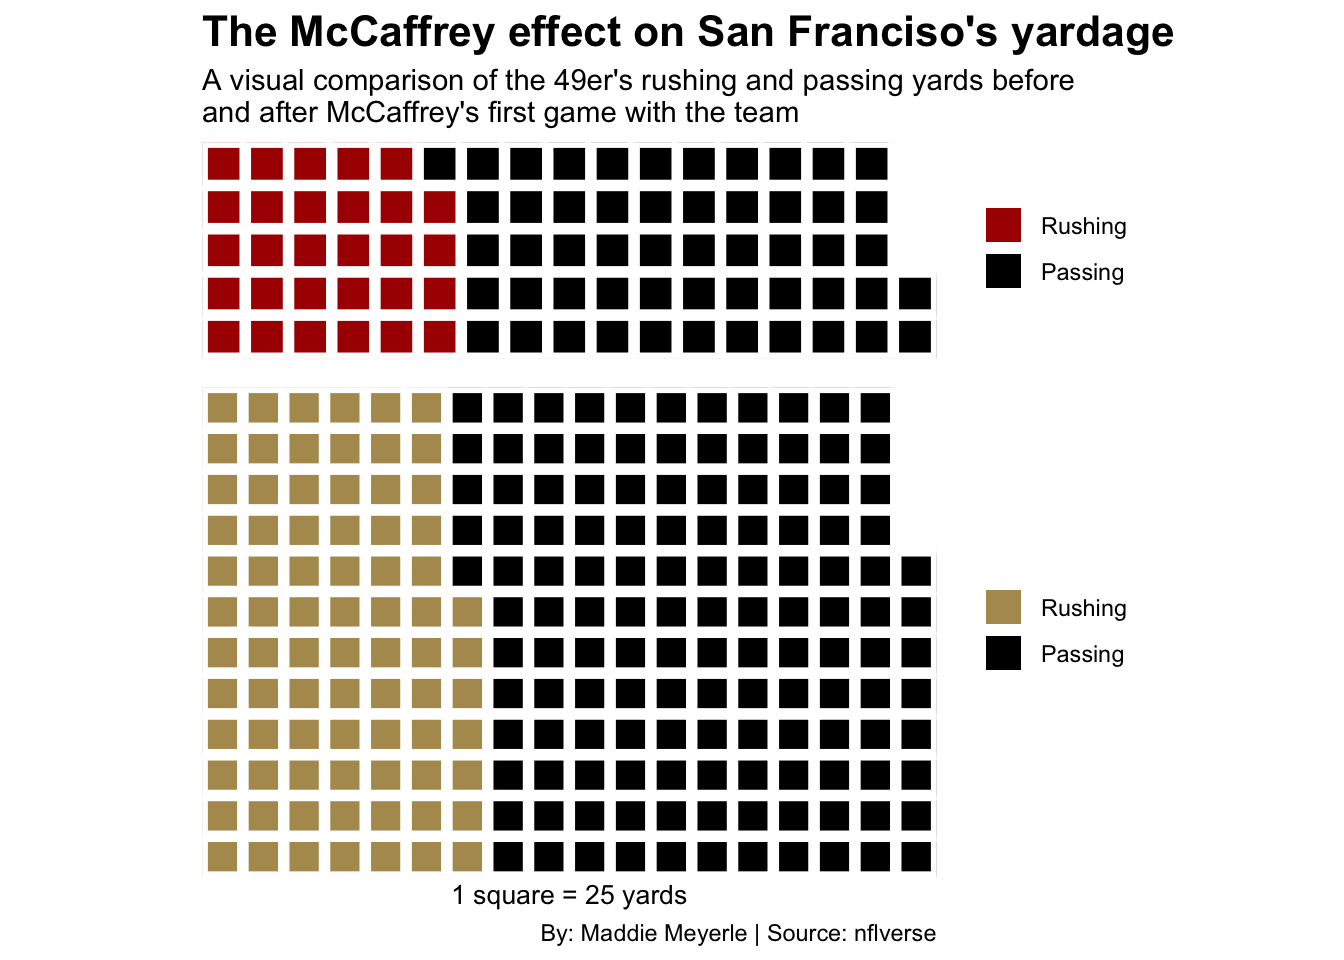
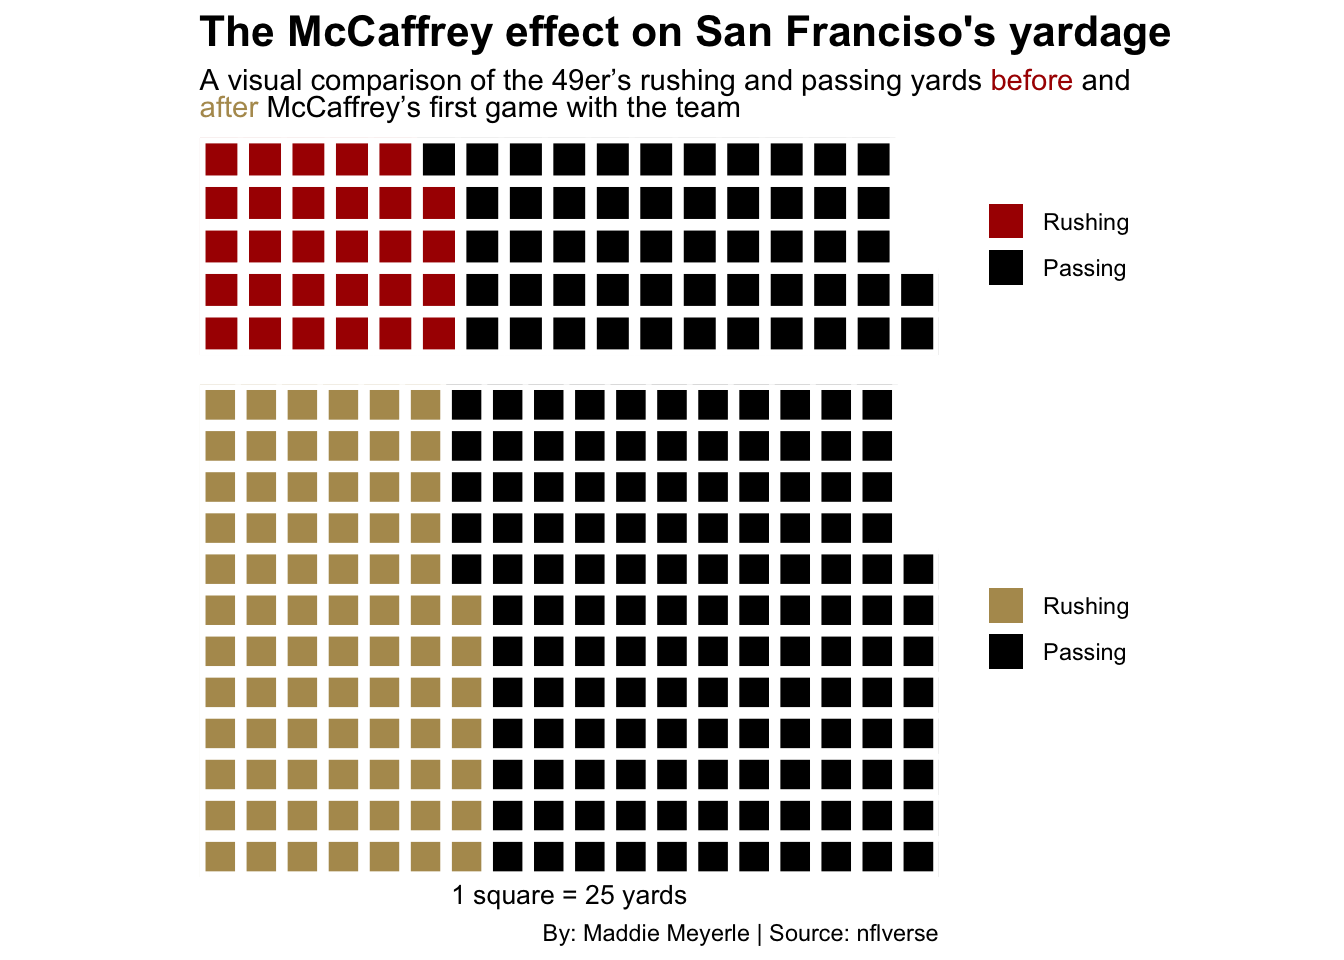
update

diff --git a/posts/christian-mccaffrey-analysis/index.html b/posts/christian-mccaffrey-analysis/index.html
@@ -279,51 +279,53 @@ pre > code.sourceCode > span > a:first-child::before { text-decoration: underlin
 <details class="code-fold">
 <summary>Code</summary>
 <div class="sourceCode cell-code" id="cb2"><pre class="sourceCode r code-with-copy"><code class="sourceCode r"><span id="cb2-1"><a href="#cb2-1" aria-hidden="true" tabindex="-1"></a><span class="fu">library</span>(waffle)</span>
-<span id="cb2-2"><a href="#cb2-2" aria-hidden="true" tabindex="-1"></a></span>
-<span id="cb2-3"><a href="#cb2-3" aria-hidden="true" tabindex="-1"></a>after_date <span class="ot">&lt;-</span> <span class="fu">as.Date</span>(<span class="st">"2022-10-23"</span>)</span>
-<span id="cb2-4"><a href="#cb2-4" aria-hidden="true" tabindex="-1"></a></span>
-<span id="cb2-5"><a href="#cb2-5" aria-hidden="true" tabindex="-1"></a>before_data <span class="ot">&lt;-</span> pbp_data <span class="sc">|&gt;</span></span>
-<span id="cb2-6"><a href="#cb2-6" aria-hidden="true" tabindex="-1"></a>  <span class="fu">filter</span>(posteam <span class="sc">==</span> <span class="st">"SF"</span> <span class="sc">&amp;</span> game_date <span class="sc">&lt;</span> after_date) <span class="sc">|&gt;</span></span>
-<span id="cb2-7"><a href="#cb2-7" aria-hidden="true" tabindex="-1"></a>  <span class="fu">summarise</span>(</span>
-<span id="cb2-8"><a href="#cb2-8" aria-hidden="true" tabindex="-1"></a>    <span class="at">total_rushing_yards =</span> <span class="fu">sum</span>(rushing_yards, <span class="at">na.rm =</span> <span class="cn">TRUE</span>),</span>
-<span id="cb2-9"><a href="#cb2-9" aria-hidden="true" tabindex="-1"></a>    <span class="at">total_passing_yards =</span> <span class="fu">sum</span>(passing_yards, <span class="at">na.rm =</span> <span class="cn">TRUE</span>)</span>
-<span id="cb2-10"><a href="#cb2-10" aria-hidden="true" tabindex="-1"></a>  )</span>
-<span id="cb2-11"><a href="#cb2-11" aria-hidden="true" tabindex="-1"></a></span>
-<span id="cb2-12"><a href="#cb2-12" aria-hidden="true" tabindex="-1"></a>after_data <span class="ot">&lt;-</span> pbp_data <span class="sc">|&gt;</span></span>
-<span id="cb2-13"><a href="#cb2-13" aria-hidden="true" tabindex="-1"></a>  <span class="fu">filter</span>(posteam <span class="sc">==</span> <span class="st">"SF"</span> <span class="sc">&amp;</span> game_date <span class="sc">&gt;=</span> after_date) <span class="sc">|&gt;</span></span>
-<span id="cb2-14"><a href="#cb2-14" aria-hidden="true" tabindex="-1"></a>  <span class="fu">summarise</span>(</span>
-<span id="cb2-15"><a href="#cb2-15" aria-hidden="true" tabindex="-1"></a>    <span class="at">total_rushing_yards =</span> <span class="fu">sum</span>(rushing_yards, <span class="at">na.rm =</span> <span class="cn">TRUE</span>),</span>
-<span id="cb2-16"><a href="#cb2-16" aria-hidden="true" tabindex="-1"></a>    <span class="at">total_passing_yards =</span> <span class="fu">sum</span>(passing_yards, <span class="at">na.rm =</span> <span class="cn">TRUE</span>)</span>
-<span id="cb2-17"><a href="#cb2-17" aria-hidden="true" tabindex="-1"></a>  )</span>
-<span id="cb2-18"><a href="#cb2-18" aria-hidden="true" tabindex="-1"></a></span>
-<span id="cb2-19"><a href="#cb2-19" aria-hidden="true" tabindex="-1"></a>before <span class="ot">&lt;-</span> <span class="fu">c</span>(<span class="st">"Rushing"</span> <span class="ot">=</span> <span class="dv">744</span>, <span class="st">"Passing"</span> <span class="ot">=</span> <span class="dv">1347</span>)</span>
-<span id="cb2-20"><a href="#cb2-20" aria-hidden="true" tabindex="-1"></a>after <span class="ot">&lt;-</span> <span class="fu">c</span>(<span class="st">"Rushing"</span> <span class="ot">=</span> <span class="dv">1991</span>, <span class="st">"Passing"</span> <span class="ot">=</span> <span class="dv">3345</span>)</span>
-<span id="cb2-21"><a href="#cb2-21" aria-hidden="true" tabindex="-1"></a></span>
-<span id="cb2-22"><a href="#cb2-22" aria-hidden="true" tabindex="-1"></a><span class="fu">iron</span>(</span>
-<span id="cb2-23"><a href="#cb2-23" aria-hidden="true" tabindex="-1"></a>  <span class="fu">waffle</span>(</span>
-<span id="cb2-24"><a href="#cb2-24" aria-hidden="true" tabindex="-1"></a>    before <span class="sc">/</span> <span class="dv">25</span>, </span>
-<span id="cb2-25"><a href="#cb2-25" aria-hidden="true" tabindex="-1"></a>    <span class="at">rows =</span> <span class="dv">5</span>, </span>
-<span id="cb2-26"><a href="#cb2-26" aria-hidden="true" tabindex="-1"></a>    <span class="at">colors =</span> <span class="fu">c</span>(<span class="st">"#AA0000"</span>, <span class="st">"black"</span>)</span>
-<span id="cb2-27"><a href="#cb2-27" aria-hidden="true" tabindex="-1"></a>  ) <span class="sc">+</span></span>
-<span id="cb2-28"><a href="#cb2-28" aria-hidden="true" tabindex="-1"></a>    <span class="fu">labs</span>(</span>
-<span id="cb2-29"><a href="#cb2-29" aria-hidden="true" tabindex="-1"></a>      <span class="at">title =</span> <span class="st">"The McCaffrey effect on San Franciso's yardage"</span>,</span>
-<span id="cb2-30"><a href="#cb2-30" aria-hidden="true" tabindex="-1"></a>      <span class="at">subtitle =</span> <span class="st">"A visual comparison of the 49er's rushing and passing yards before</span><span class="sc">\n</span><span class="st">and after McCaffrey's first game with the team"</span>,</span>
-<span id="cb2-31"><a href="#cb2-31" aria-hidden="true" tabindex="-1"></a>    ) <span class="sc">+</span></span>
-<span id="cb2-32"><a href="#cb2-32" aria-hidden="true" tabindex="-1"></a>    <span class="fu">theme</span>(</span>
-<span id="cb2-33"><a href="#cb2-33" aria-hidden="true" tabindex="-1"></a>      <span class="at">plot.title =</span> <span class="fu">element_text</span>(<span class="at">size =</span> <span class="dv">16</span>, <span class="at">face =</span> <span class="st">"bold"</span>),</span>
-<span id="cb2-34"><a href="#cb2-34" aria-hidden="true" tabindex="-1"></a>      <span class="at">axis.title =</span> <span class="fu">element_text</span>(<span class="at">size =</span> <span class="dv">10</span>),</span>
-<span id="cb2-35"><a href="#cb2-35" aria-hidden="true" tabindex="-1"></a>      <span class="at">axis.title.y =</span> <span class="fu">element_blank</span>()</span>
-<span id="cb2-36"><a href="#cb2-36" aria-hidden="true" tabindex="-1"></a>    ),</span>
-<span id="cb2-37"><a href="#cb2-37" aria-hidden="true" tabindex="-1"></a>  <span class="fu">waffle</span>(</span>
-<span id="cb2-38"><a href="#cb2-38" aria-hidden="true" tabindex="-1"></a>    after <span class="sc">/</span> <span class="dv">25</span>, </span>
-<span id="cb2-39"><a href="#cb2-39" aria-hidden="true" tabindex="-1"></a>    <span class="at">rows =</span> <span class="dv">12</span>, </span>
-<span id="cb2-40"><a href="#cb2-40" aria-hidden="true" tabindex="-1"></a>    <span class="at">colors =</span> <span class="fu">c</span>(<span class="st">"#B3995D"</span>, <span class="st">"#000000"</span>)</span>
-<span id="cb2-41"><a href="#cb2-41" aria-hidden="true" tabindex="-1"></a>  ) <span class="sc">+</span></span>
-<span id="cb2-42"><a href="#cb2-42" aria-hidden="true" tabindex="-1"></a>    <span class="fu">labs</span>(</span>
-<span id="cb2-43"><a href="#cb2-43" aria-hidden="true" tabindex="-1"></a>      <span class="at">x =</span> <span class="st">"1 square = 25 yards"</span>,</span>
-<span id="cb2-44"><a href="#cb2-44" aria-hidden="true" tabindex="-1"></a>      <span class="at">caption =</span> <span class="st">"By: Maddie Meyerle | Source: nflverse"</span></span>
-<span id="cb2-45"><a href="#cb2-45" aria-hidden="true" tabindex="-1"></a>    )</span>
-<span id="cb2-46"><a href="#cb2-46" aria-hidden="true" tabindex="-1"></a>)</span></code><button title="Copy to Clipboard" class="code-copy-button"><i class="bi"></i></button></pre></div>
+<span id="cb2-2"><a href="#cb2-2" aria-hidden="true" tabindex="-1"></a><span class="fu">library</span>(ggtext)</span>
+<span id="cb2-3"><a href="#cb2-3" aria-hidden="true" tabindex="-1"></a></span>
+<span id="cb2-4"><a href="#cb2-4" aria-hidden="true" tabindex="-1"></a>after_date <span class="ot">&lt;-</span> <span class="fu">as.Date</span>(<span class="st">"2022-10-23"</span>)</span>
+<span id="cb2-5"><a href="#cb2-5" aria-hidden="true" tabindex="-1"></a></span>
+<span id="cb2-6"><a href="#cb2-6" aria-hidden="true" tabindex="-1"></a>before_data <span class="ot">&lt;-</span> pbp_data <span class="sc">|&gt;</span></span>
+<span id="cb2-7"><a href="#cb2-7" aria-hidden="true" tabindex="-1"></a>  <span class="fu">filter</span>(posteam <span class="sc">==</span> <span class="st">"SF"</span> <span class="sc">&amp;</span> game_date <span class="sc">&lt;</span> after_date) <span class="sc">|&gt;</span></span>
+<span id="cb2-8"><a href="#cb2-8" aria-hidden="true" tabindex="-1"></a>  <span class="fu">summarise</span>(</span>
+<span id="cb2-9"><a href="#cb2-9" aria-hidden="true" tabindex="-1"></a>    <span class="at">total_rushing_yards =</span> <span class="fu">sum</span>(rushing_yards, <span class="at">na.rm =</span> <span class="cn">TRUE</span>),</span>
+<span id="cb2-10"><a href="#cb2-10" aria-hidden="true" tabindex="-1"></a>    <span class="at">total_passing_yards =</span> <span class="fu">sum</span>(passing_yards, <span class="at">na.rm =</span> <span class="cn">TRUE</span>)</span>
+<span id="cb2-11"><a href="#cb2-11" aria-hidden="true" tabindex="-1"></a>  )</span>
+<span id="cb2-12"><a href="#cb2-12" aria-hidden="true" tabindex="-1"></a></span>
+<span id="cb2-13"><a href="#cb2-13" aria-hidden="true" tabindex="-1"></a>after_data <span class="ot">&lt;-</span> pbp_data <span class="sc">|&gt;</span></span>
+<span id="cb2-14"><a href="#cb2-14" aria-hidden="true" tabindex="-1"></a>  <span class="fu">filter</span>(posteam <span class="sc">==</span> <span class="st">"SF"</span> <span class="sc">&amp;</span> game_date <span class="sc">&gt;=</span> after_date) <span class="sc">|&gt;</span></span>
+<span id="cb2-15"><a href="#cb2-15" aria-hidden="true" tabindex="-1"></a>  <span class="fu">summarise</span>(</span>
+<span id="cb2-16"><a href="#cb2-16" aria-hidden="true" tabindex="-1"></a>    <span class="at">total_rushing_yards =</span> <span class="fu">sum</span>(rushing_yards, <span class="at">na.rm =</span> <span class="cn">TRUE</span>),</span>
+<span id="cb2-17"><a href="#cb2-17" aria-hidden="true" tabindex="-1"></a>    <span class="at">total_passing_yards =</span> <span class="fu">sum</span>(passing_yards, <span class="at">na.rm =</span> <span class="cn">TRUE</span>)</span>
+<span id="cb2-18"><a href="#cb2-18" aria-hidden="true" tabindex="-1"></a>  )</span>
+<span id="cb2-19"><a href="#cb2-19" aria-hidden="true" tabindex="-1"></a></span>
+<span id="cb2-20"><a href="#cb2-20" aria-hidden="true" tabindex="-1"></a>before <span class="ot">&lt;-</span> <span class="fu">c</span>(<span class="st">"Rushing"</span> <span class="ot">=</span> <span class="dv">744</span>, <span class="st">"Passing"</span> <span class="ot">=</span> <span class="dv">1347</span>)</span>
+<span id="cb2-21"><a href="#cb2-21" aria-hidden="true" tabindex="-1"></a>after <span class="ot">&lt;-</span> <span class="fu">c</span>(<span class="st">"Rushing"</span> <span class="ot">=</span> <span class="dv">1991</span>, <span class="st">"Passing"</span> <span class="ot">=</span> <span class="dv">3345</span>)</span>
+<span id="cb2-22"><a href="#cb2-22" aria-hidden="true" tabindex="-1"></a></span>
+<span id="cb2-23"><a href="#cb2-23" aria-hidden="true" tabindex="-1"></a><span class="fu">iron</span>(</span>
+<span id="cb2-24"><a href="#cb2-24" aria-hidden="true" tabindex="-1"></a>  <span class="fu">waffle</span>(</span>
+<span id="cb2-25"><a href="#cb2-25" aria-hidden="true" tabindex="-1"></a>    before <span class="sc">/</span> <span class="dv">25</span>, </span>
+<span id="cb2-26"><a href="#cb2-26" aria-hidden="true" tabindex="-1"></a>    <span class="at">rows =</span> <span class="dv">5</span>, </span>
+<span id="cb2-27"><a href="#cb2-27" aria-hidden="true" tabindex="-1"></a>    <span class="at">colors =</span> <span class="fu">c</span>(<span class="st">"#AA0000"</span>, <span class="st">"black"</span>)</span>
+<span id="cb2-28"><a href="#cb2-28" aria-hidden="true" tabindex="-1"></a>  ) <span class="sc">+</span></span>
+<span id="cb2-29"><a href="#cb2-29" aria-hidden="true" tabindex="-1"></a>    <span class="fu">labs</span>(</span>
+<span id="cb2-30"><a href="#cb2-30" aria-hidden="true" tabindex="-1"></a>      <span class="at">title =</span> <span class="st">"The McCaffrey effect on San Franciso's yardage"</span>,</span>
+<span id="cb2-31"><a href="#cb2-31" aria-hidden="true" tabindex="-1"></a>      <span class="at">subtitle =</span> <span class="st">"A visual comparison of the 49er's rushing and passing yards &lt;span style='color:#AA0000'&gt;before&lt;/span&gt; and&lt;br&gt; &lt;span style='color:#B3995D'&gt;after&lt;/span&gt; McCaffrey's first game with the team"</span>,</span>
+<span id="cb2-32"><a href="#cb2-32" aria-hidden="true" tabindex="-1"></a>    ) <span class="sc">+</span></span>
+<span id="cb2-33"><a href="#cb2-33" aria-hidden="true" tabindex="-1"></a>    <span class="fu">theme</span>(</span>
+<span id="cb2-34"><a href="#cb2-34" aria-hidden="true" tabindex="-1"></a>      <span class="at">plot.title =</span> <span class="fu">element_text</span>(<span class="at">size =</span> <span class="dv">16</span>, <span class="at">face =</span> <span class="st">"bold"</span>),</span>
+<span id="cb2-35"><a href="#cb2-35" aria-hidden="true" tabindex="-1"></a>      <span class="at">axis.title =</span> <span class="fu">element_text</span>(<span class="at">size =</span> <span class="dv">10</span>),</span>
+<span id="cb2-36"><a href="#cb2-36" aria-hidden="true" tabindex="-1"></a>      <span class="at">axis.title.y =</span> <span class="fu">element_blank</span>(),</span>
+<span id="cb2-37"><a href="#cb2-37" aria-hidden="true" tabindex="-1"></a>      <span class="at">plot.subtitle =</span> ggtext<span class="sc">::</span><span class="fu">element_markdown</span>()</span>
+<span id="cb2-38"><a href="#cb2-38" aria-hidden="true" tabindex="-1"></a>    ),</span>
+<span id="cb2-39"><a href="#cb2-39" aria-hidden="true" tabindex="-1"></a>  <span class="fu">waffle</span>(</span>
+<span id="cb2-40"><a href="#cb2-40" aria-hidden="true" tabindex="-1"></a>    after <span class="sc">/</span> <span class="dv">25</span>, </span>
+<span id="cb2-41"><a href="#cb2-41" aria-hidden="true" tabindex="-1"></a>    <span class="at">rows =</span> <span class="dv">12</span>, </span>
+<span id="cb2-42"><a href="#cb2-42" aria-hidden="true" tabindex="-1"></a>    <span class="at">colors =</span> <span class="fu">c</span>(<span class="st">"#B3995D"</span>, <span class="st">"#000000"</span>)</span>
+<span id="cb2-43"><a href="#cb2-43" aria-hidden="true" tabindex="-1"></a>  ) <span class="sc">+</span></span>
+<span id="cb2-44"><a href="#cb2-44" aria-hidden="true" tabindex="-1"></a>    <span class="fu">labs</span>(</span>
+<span id="cb2-45"><a href="#cb2-45" aria-hidden="true" tabindex="-1"></a>      <span class="at">x =</span> <span class="st">"1 square = 25 yards"</span>,</span>
+<span id="cb2-46"><a href="#cb2-46" aria-hidden="true" tabindex="-1"></a>      <span class="at">caption =</span> <span class="st">"By: Maddie Meyerle | Source: nflverse"</span></span>
+<span id="cb2-47"><a href="#cb2-47" aria-hidden="true" tabindex="-1"></a>    )</span>
+<span id="cb2-48"><a href="#cb2-48" aria-hidden="true" tabindex="-1"></a>)</span></code><button title="Copy to Clipboard" class="code-copy-button"><i class="bi"></i></button></pre></div>
 </details>
 <div class="cell-output-display">
 <div>

diff --git a/index.html b/index.html
@@ -215,7 +215,7 @@ window.Quarto = {
 
 <div class="quarto-listing quarto-listing-container-default" id="listing-listing">
 <div class="list quarto-listing-default">
-<div class="quarto-post image-right" data-index="0" data-categories="bWNjYWZmcmV5LGFuYWx5c2lzLG5mbA==" data-listing-date-sort="1733378400000" data-listing-file-modified-sort="1733768516221" data-listing-date-modified-sort="NaN" data-listing-reading-time-sort="10" data-listing-word-count-sort="1808">
+<div class="quarto-post image-right" data-index="0" data-categories="bWNjYWZmcmV5LGFuYWx5c2lzLG5mbA==" data-listing-date-sort="1733378400000" data-listing-file-modified-sort="1733770935092" data-listing-date-modified-sort="NaN" data-listing-reading-time-sort="10" data-listing-word-count-sort="1819">
 <div class="thumbnail">
 <p><a href="./posts/christian-mccaffrey-analysis/index.html" class="no-external"></a></p><a href="./posts/christian-mccaffrey-analysis/index.html" class="no-external">
 <p><img loading="lazy" src="./posts/christian-mccaffrey-analysis/image2.png" class="thumbnail-image"></p>
